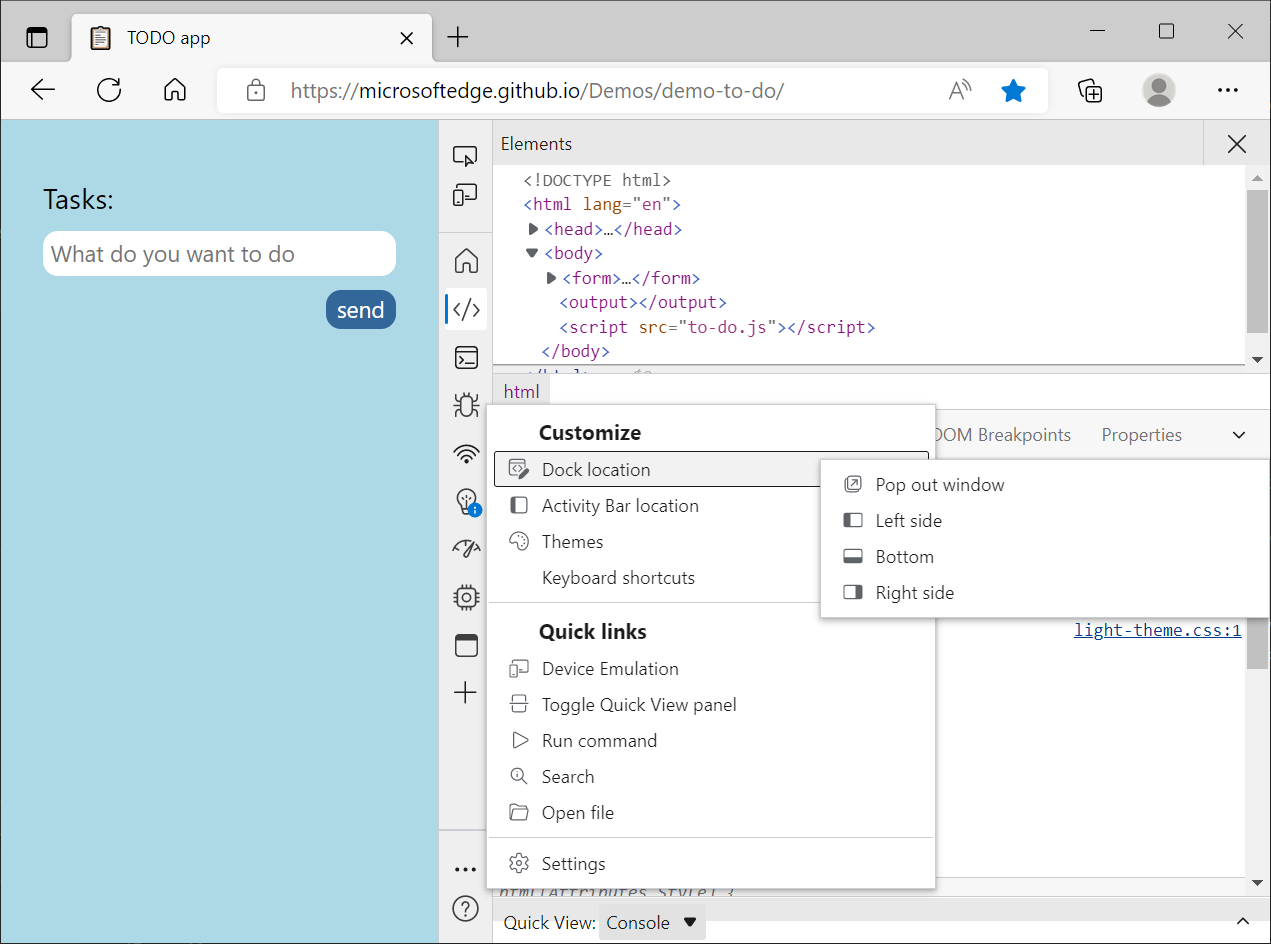
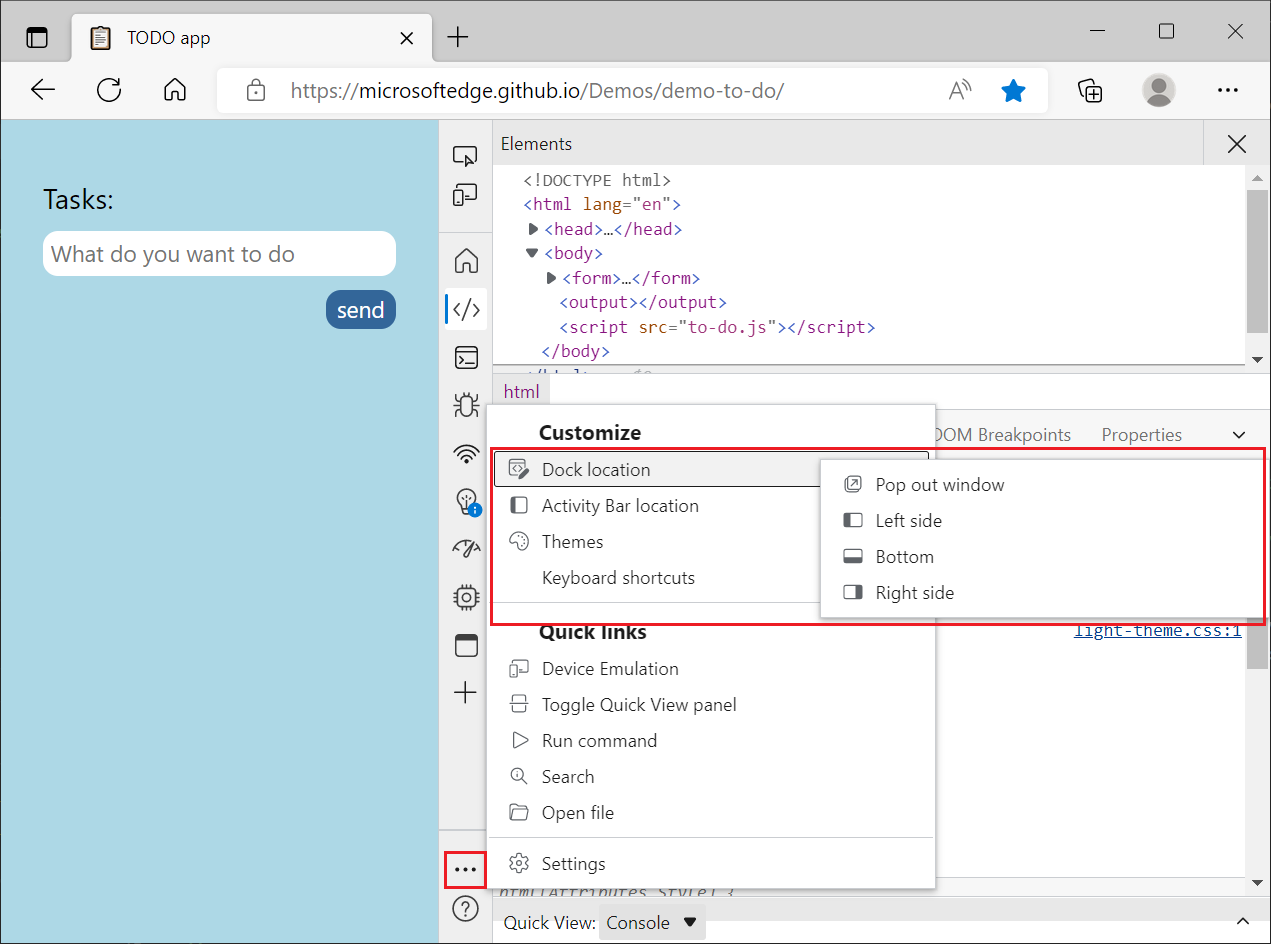
Fixed UI wording around setting docking location

Changed region(s): [[0.3989, 0.4608, 1.0, 0.6758], [0.3375, 0.8909, 0.3682, 0.9523]]

diff --git a/microsoft-edge/devtools-guide-chromium/whats-new/2022/09/devtools-105.md b/microsoft-edge/devtools-guide-chromium/whats-new/2022/09/devtools-105.md
@@ -68,13 +68,13 @@ See also:
 
 In Microsoft Edge 105, several improvements to location controls have been made in [Focus Mode](/devtools-guide-chromium/experimental-features/focus-mode), including a new option for changing the orientation of **Quick View**.
 
-The **Settings** menu now directly provides options for changing the docking location of DevTools.  This menu also contains settings for where the **Activity Bar** is displayed.  The previous submenus have been replaced with toggle buttons.  Additionally, improved contrast means the option you have selected is more easily visible at a glance.
+The **Customize and control DevTools** (**...**) menu now directly provides options for changing the docking location of DevTools.  This menu also contains settings for where the **Activity Bar** is displayed.  The previous submenus have been replaced with toggle buttons.  Additionally, improved contrast means the option you have selected is more easily visible at a glance.
 
-Focus Mode, in previous versions of Microsoft Edge:
+Selecting the docking location in Focus Mode, in previous versions of Microsoft Edge:
 
 ![Focus Mode Before](./devtools-105-images/before-docking-menu.png)
 
-Focus Mode, in Microsoft Edge 105:
+Selecting the docking location in Focus Mode, in Microsoft Edge 105:
 
 ![Focus Mode After](./devtools-105-images/after-docking-menu.png)
 
